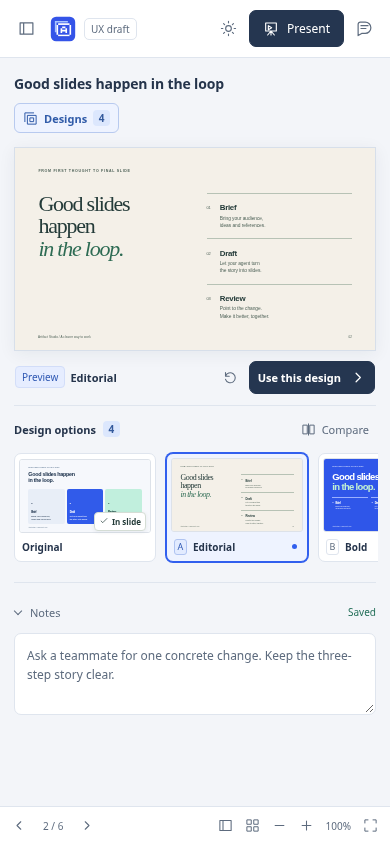
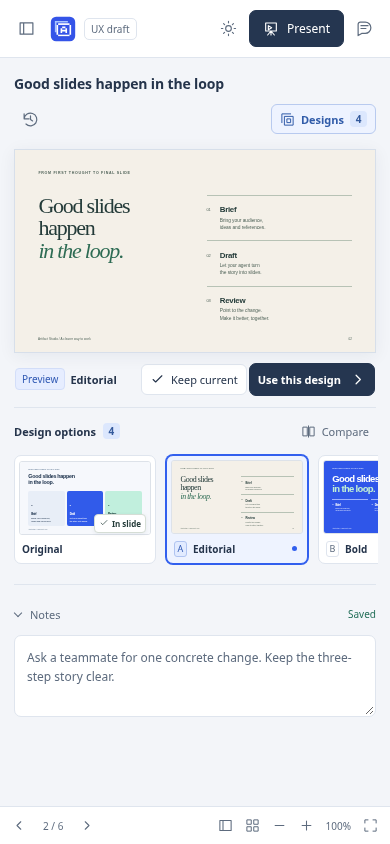
docs(ux): settle design choices quietly and retain them in history

diff --git a/docs/prototypes/slide-alternatives/prototype.js b/docs/prototypes/slide-alternatives/prototype.js
@@ -37,6 +37,8 @@
     {name:'Space for the details', html:otherSlide('Space for<br>the details.',6)},
   ];
   let current = 'original', selected = 'original', activeSlide = 1, previousChoice = null, approved = false;
+  let choiceSettled = false, trayOpen = true, historyNavigated = false;
+  const designHistory = [{id:'original',action:'Starting design'}];
   let compareTrigger = null, compareReference = current;
   const peek = $('alternative-peek');
   let peekTrigger = null, peekCloseTimer = null, suppressPeekFocus = false;
@@ -45,7 +47,7 @@
 
   function renderRail() {
     closeAlternativePeek();
-    $('slide-overview').innerHTML = slides.map((slide,index) => `${index === 0 || index === 3 ? `<div class="draft-section-label">${icon('down')}${index === 0 ? 'The story' : 'In the room'}<span>3</span></div>` : ''}<div class="draft-slide-entry"><button class="draft-slide-thumb" data-slide="${index}" aria-label="Slide ${index+1}: ${slide.name}${index === 1 ? ', 3 alternative designs available' : ''}" ${index === activeSlide ? 'aria-current="true"' : ''}><div class="rail-slide-image" aria-hidden="true">${index === 1 ? design(current).html : slide.html}</div><span class="rail-slide-caption"><span class="rail-slide-number">0${index+1}</span><span>${slide.name}</span><span class="dot ${index === 0 || index === 2 ? 'green' : 'red'}"></span></span></button>${index === 1 ? `<button class="rail-alternatives" data-alternatives aria-label="View 3 alternative designs for slide 2" aria-expanded="false" aria-controls="alternative-peek" aria-describedby="alternative-peek-help">${icon('designs')}<span>3</span></button>` : ''}</div>`).join('');
+    $('slide-overview').innerHTML = slides.map((slide,index) => `${index === 0 || index === 3 ? `<div class="draft-section-label">${icon('down')}${index === 0 ? 'The story' : 'In the room'}<span>3</span></div>` : ''}<div class="draft-slide-entry ${index === 1 && choiceSettled ? 'is-decided' : ''}"><button class="draft-slide-thumb" data-slide="${index}" aria-label="Slide ${index+1}: ${slide.name}${index === 1 ? ', 3 alternative designs available' : ''}" ${index === activeSlide ? 'aria-current="true"' : ''}><div class="rail-slide-image" aria-hidden="true">${index === 1 ? design(current).html : slide.html}</div><span class="rail-slide-caption"><span class="rail-slide-number">0${index+1}</span><span>${slide.name}</span><span class="dot ${index === 0 || index === 2 ? 'green' : 'red'}"></span></span></button>${index === 1 ? `<button class="rail-alternatives" data-alternatives aria-label="View 3 alternative designs for slide 2" aria-expanded="false" aria-controls="alternative-peek" aria-describedby="alternative-peek-help">${icon('designs')}<span>3</span></button>` : ''}</div>`).join('');
   }
 
   function closeAlternativePeek({restoreFocus = false} = {}) {
@@ -85,7 +87,7 @@
   function openDesignOptions(id) {
     closeAlternativePeek();
     if (activeSlide !== 1) { activeSlide = 1; selected = current; renderSlide(); }
-    $('design-tray').hidden = false; $('design-toggle').setAttribute('aria-expanded','true');
+    trayOpen = true;
     doc.body.classList.remove('slides-open'); $('toggle-slides').setAttribute('aria-expanded','false');
     preview(id || (selected !== current ? selected : designs.find(item => item.id !== current).id),{focus:true});
     $('design-tray').scrollIntoView({block:'nearest'});
@@ -113,21 +115,35 @@
 
   function render({focus = false} = {}) {
     const item = design(selected), inSlide = selectedIsCurrent();
+    $('design-tray').hidden = !trayOpen;
+    $('design-toggle').setAttribute('aria-expanded',String(trayOpen));
+    $('design-toggle').hidden = choiceSettled && !trayOpen && inSlide;
+    $('design-history').hidden = false;
+    $('decision-bar').hidden = choiceSettled && inSlide;
     $('slide-stage').innerHTML = item.html;
-    $('slide-stage').setAttribute('role','tabpanel');
-    $('slide-stage').setAttribute('aria-labelledby', `design-${selected}`);
+    $('slide-stage').setAttribute('role',trayOpen ? 'tabpanel' : 'region');
+    if (trayOpen) { $('slide-stage').setAttribute('aria-labelledby', `design-${selected}`); $('slide-stage').removeAttribute('aria-label'); }
+    else { $('slide-stage').removeAttribute('aria-labelledby'); $('slide-stage').setAttribute('aria-label',`${item.name} design ${inSlide ? 'in slide' : 'preview'}`); }
     $('preview-state').classList.toggle('is-current', inSlide);
     $('preview-state').innerHTML = inSlide ? `${icon('check')}In slide` : 'Preview';
     $('preview-name').textContent = item.name;
-    $('back-current').hidden = inSlide;
+    $('back-current').hidden = choiceSettled && inSlide;
+    const keepLabel = choiceSettled ? 'Back to current' : 'Keep current';
+    $('back-current').innerHTML = `${icon(choiceSettled ? 'restore' : 'check')}<span>${keepLabel}</span>`;
+    $('back-current').setAttribute('aria-label',`${keepLabel} design`);
+    $('back-current').title = `${keepLabel} design`;
+    $('back-current').classList.toggle('is-confirm',!choiceSettled);
     $('use-design').hidden = inSlide;
     $('approve').hidden = !inSlide;
     $('approve').setAttribute('aria-pressed',String(approved));
     $('approve').innerHTML = `${icon('check')}${approved ? 'Approved' : 'Approve'}`;
     $('design-options').innerHTML = designs.map(item => optionMarkup(item,'design')).join('');
     $('composer-design').textContent = inSlide ? '' : `${item.name} preview`;
+    $('review-designs').classList.toggle('is-resolved',choiceSettled);
+    $('review-designs').querySelector('.chat-design-card-label strong').innerHTML = choiceSettled ? `${icon('check')}${design(current).name} kept` : '3 new designs';
+    $('review-designs').setAttribute('aria-label',choiceSettled ? `View saved designs, ${design(current).name} kept` : 'Review 3 new designs');
     if ($('compare-dialog').open) renderComparison();
-    if (focus) $(`design-${selected}`).focus({preventScroll:true});
+    if (focus) (trayOpen ? $(`design-${selected}`) : $('slide-stage')).focus({preventScroll:true});
   }
 
   function preview(id, {focus = false} = {}) {
@@ -146,28 +162,46 @@
     $('compare-candidate').setAttribute('aria-labelledby',`compare-${selected}`);
     $('compare-options').innerHTML = designs.filter(item => item.id !== compareReference).map(item => optionMarkup(item,'compare')).join('');
     $('compare-candidate-state').textContent = selectedIsCurrent() ? 'In slide' : 'Preview';
-    $('use-reference').hidden = compareReference === current;
-    $('use-reference').textContent = `Use ${design(compareReference).name}`;
-    $('use-compared').innerHTML = selectedIsCurrent() ? `${icon('check')}In slide` : `Use ${design(selected).name}${icon('right')}`;
-    $('use-compared').disabled = selectedIsCurrent();
+    $('use-reference').hidden = false;
+    $('use-reference').textContent = `${compareReference === current ? 'Keep' : 'Use'} ${design(compareReference).name}`;
+    $('use-compared').innerHTML = selectedIsCurrent() ? `Keep ${design(current).name}${icon('check')}` : `Use ${design(selected).name}${icon('right')}`;
+    $('use-compared').disabled = false;
+    $('keep-compared-current').hidden = compareReference === current || selectedIsCurrent();
   }
 
   function closeComparison() {
     $('compare-dialog').close();
   }
 
-  function adopt() {
-    if (selectedIsCurrent()) return;
-    previousChoice = {id:current,approved};
-    current = selected;
-    approved = false;
+  function settleDesign(id) {
+    const replacing = id !== current;
+    previousChoice = {id:current,approved,settled:choiceSettled};
+    current = id; selected = current;
+    if (replacing) approved = false;
+    choiceSettled = true; trayOpen = false;
+    designHistory.push({id:current,action:replacing ? 'Design chosen' : 'Kept current design'});
     renderRail();
     if ($('compare-dialog').open) closeComparison();
     render();
-    $('toast-message').textContent = `${design(current).name} is now in the slide.`;
+    $('toast-message').textContent = replacing ? `${design(current).name} is now in the slide.` : `${design(current).name} kept. Alternatives saved.`;
     $('draft-toast').hidden = false;
     $('undo-choice').hidden = false;
-    $('design-toggle').focus({preventScroll:true});
+    $('design-history').focus({preventScroll:true});
+  }
+
+  function adopt() { settleDesign(selected); }
+
+  function cancelExploration() {
+    if (choiceSettled) trayOpen = false;
+    preview(current,{focus:!choiceSettled});
+    if (choiceSettled) $('design-history').focus({preventScroll:true});
+  }
+
+  function focusDesignControl() { ($('design-toggle').hidden ? $('design-history') : $('design-toggle')).focus({preventScroll:true}); }
+
+  function renderDesignHistory() {
+    $('design-history-list').innerHTML = [...designHistory].reverse().map((entry,index) => `<li><button class="design-history-entry" data-history-design="${entry.id}" aria-label="Preview ${design(entry.id).name}, ${entry.action.toLowerCase()}${index === 0 && entry.id === current ? ', in slide' : ''}"><span class="history-design-image" aria-hidden="true">${design(entry.id).html}</span><span class="history-design-copy"><strong>${design(entry.id).name}</strong><small>${entry.action}</small></span>${index === 0 && entry.id === current ? `<span class="history-current">${icon('check')}In slide</span>` : icon('right')}</button></li>`).join('');
+    $('saved-design-options').innerHTML = designs.filter(item => item.id !== current).map(item => `<button class="saved-design-option" data-history-design="${item.id}" aria-label="Preview saved ${item.name} design"><span class="design-option-image" aria-hidden="true">${item.html}</span><span class="design-option-label"><strong>${item.name}</strong></span></button>`).join('');
   }
 
   function tabKeyboard(event, prefix) {
@@ -185,10 +219,11 @@
   $('design-options').addEventListener('keydown', event => tabKeyboard(event,'design'));
   $('compare-options').addEventListener('click', event => { const option = event.target.closest('[data-design]'); if (option) { preview(option.dataset.design); $(`compare-${selected}`).focus({preventScroll:true}); } });
   $('compare-options').addEventListener('keydown', event => tabKeyboard(event,'compare'));
-  $('back-current').addEventListener('click', () => preview(current,{focus:true}));
+  $('back-current').addEventListener('click', () => { if (choiceSettled) cancelExploration(); else settleDesign(current); });
   $('use-design').addEventListener('click', adopt);
   $('use-compared').addEventListener('click', adopt);
-  $('use-reference').addEventListener('click', () => { selected = compareReference; adopt(); });
+  $('use-reference').addEventListener('click', () => settleDesign(compareReference));
+  $('keep-compared-current').addEventListener('click', () => settleDesign(current));
   $('compare-reference').addEventListener('change', event => { compareReference = event.target.value; renderComparison(); announce(`Comparing ${design(compareReference).name} with ${design(selected).name}. Your slide is unchanged.`); });
   $('compare-candidate-select').addEventListener('change', event => { preview(event.target.value); $('compare-candidate-select').focus({preventScroll:true}); });
   $('compare').addEventListener('click', event => {
@@ -199,18 +234,23 @@
     $('close-compare').focus();
   });
   $('close-compare').addEventListener('click', closeComparison);
-  $('compare-dialog').addEventListener('close', () => { compareTrigger?.focus({preventScroll:true}); });
-  $('design-toggle').addEventListener('click', () => { const expanded = $('design-toggle').getAttribute('aria-expanded') === 'true'; $('design-tray').hidden = expanded; $('design-toggle').setAttribute('aria-expanded',String(!expanded)); });
+  $('compare-dialog').addEventListener('close', () => { (compareTrigger?.checkVisibility() ? compareTrigger : $('design-history')).focus({preventScroll:true}); });
+  $('design-toggle').addEventListener('click', () => { trayOpen = !trayOpen; render(); if ($('design-toggle').hidden) $('design-history').focus({preventScroll:true}); });
   $('review-designs').addEventListener('click', () => openDesignOptions());
+  $('design-history').addEventListener('click', () => { renderDesignHistory(); $('saved-designs').open = false; historyNavigated = false; $('design-history-dialog').showModal(); $('close-design-history').focus(); });
+  $('close-design-history').addEventListener('click', () => $('design-history-dialog').close());
+  $('design-history-dialog').addEventListener('close', () => { if (!historyNavigated) $('design-history').focus({preventScroll:true}); historyNavigated = false; });
+  $('design-history-dialog').addEventListener('click', event => { const entry = event.target.closest('[data-history-design]'); if (entry) { historyNavigated = true; $('design-history-dialog').close(); openDesignOptions(entry.dataset.historyDesign); } });
   $('undo-choice').addEventListener('click', () => {
     if (previousChoice === null) return;
-    current = previousChoice.id; approved = previousChoice.approved; selected = current; previousChoice = null;
+    current = previousChoice.id; approved = previousChoice.approved; choiceSettled = previousChoice.settled; trayOpen = !choiceSettled; selected = current; previousChoice = null;
+    designHistory.push({id:current,action:'Choice undone'});
     renderRail(); render();
     $('toast-message').textContent = `Back to ${design(current).name.toLowerCase()}. All designs are kept.`;
     $('undo-choice').hidden = true;
-    $('design-toggle').focus({preventScroll:true});
+    focusDesignControl();
   });
-  $('close-toast').addEventListener('click', () => { $('draft-toast').hidden = true; $('design-toggle').focus({preventScroll:true}); });
+  $('close-toast').addEventListener('click', () => { $('draft-toast').hidden = true; focusDesignControl(); });
 
   function renderSlide() {
     renderRail();
@@ -218,6 +258,7 @@
     $('decision-bar').hidden = activeSlide !== 1;
     $('design-tray').hidden = activeSlide !== 1;
     $('design-toggle').hidden = activeSlide !== 1;
+    $('design-history').hidden = activeSlide !== 1;
     doc.querySelector('.draft-chat-title h2').textContent = slides[activeSlide].name;
     doc.querySelector('.slide-number').textContent = `0${activeSlide+1}`;
     doc.querySelector('.message-count').textContent = activeSlide === 1 ? '2' : '0';
@@ -225,10 +266,10 @@
     $('composer-slide').textContent = `0${activeSlide+1}`;
     $('composer-design').textContent = '';
     $('footer-slide').textContent = `${activeSlide+1} / 6`;
-    if (activeSlide === 1) { render(); $('design-toggle').setAttribute('aria-expanded','true'); }
+    if (activeSlide === 1) { render(); }
     else { $('slide-stage').innerHTML = slides[activeSlide].html; $('slide-stage').removeAttribute('aria-labelledby'); $('slide-stage').setAttribute('role','region'); $('approve').hidden = false; }
   }
-  $('slide-overview').addEventListener('click', event => { if (event.target.closest('[data-alternatives]')) { openDesignOptions(); return; } const thumb = event.target.closest('[data-slide]'); if (!thumb) return; activeSlide = Number(thumb.dataset.slide); selected = current; renderSlide(); doc.body.classList.remove('slides-open'); $('toggle-slides').setAttribute('aria-expanded','false'); if (innerWidth > 600) doc.querySelector(`[data-slide="${activeSlide}"]`).focus({preventScroll:true}); else $('toggle-slides').focus(); });
+  $('slide-overview').addEventListener('click', event => { if (event.target.closest('[data-alternatives]')) { openDesignOptions(); return; } const thumb = event.target.closest('[data-slide]'); if (!thumb) return; $('draft-toast').hidden = true; activeSlide = Number(thumb.dataset.slide); selected = current; trayOpen = !choiceSettled; renderSlide(); doc.body.classList.remove('slides-open'); $('toggle-slides').setAttribute('aria-expanded','false'); if (innerWidth > 600) doc.querySelector(`[data-slide="${activeSlide}"]`).focus({preventScroll:true}); else $('toggle-slides').focus(); });
   $('toggle-theme').addEventListener('click', () => { const dark = doc.documentElement.dataset.theme !== 'dark'; doc.documentElement.dataset.theme = dark ? 'dark' : 'light'; $('toggle-theme').setAttribute('aria-label',`Switch to ${dark ? 'light' : 'dark'} appearance`); });
   $('toggle-slides').addEventListener('click', () => { const open = doc.body.classList.toggle('slides-open'); $('toggle-slides').setAttribute('aria-expanded',String(open)); });
   $('toggle-chat').addEventListener('click', () => { const narrow = innerWidth <= 1100; doc.body.classList.toggle(narrow ? 'chat-open' : 'chat-closed'); $('toggle-chat').setAttribute('aria-expanded',String(narrow ? doc.body.classList.contains('chat-open') : !doc.body.classList.contains('chat-closed'))); });
@@ -237,7 +278,7 @@
   $('approve').addEventListener('click', () => { approved = !approved; $('approve').setAttribute('aria-pressed',String(approved)); $('approve').innerHTML = `${icon('check')}${approved ? 'Approved' : 'Approve'}`; });
   $('present').addEventListener('click', () => { $('presentation-stage').innerHTML = activeSlide === 1 ? design(current).html : slides[activeSlide].html; $('presentation-dialog').showModal(); });
   $('close-present').addEventListener('click', () => $('presentation-dialog').close());
-  doc.addEventListener('keydown', event => { if (event.key === 'Escape' && !$('compare-dialog').open && !$('presentation-dialog').open) { doc.body.classList.remove('slides-open','chat-open'); if (!selectedIsCurrent()) preview(current,{focus:true}); } });
+  doc.addEventListener('keydown', event => { if (event.key === 'Escape' && !$('compare-dialog').open && !$('presentation-dialog').open && !$('design-history-dialog').open) { doc.body.classList.remove('slides-open','chat-open'); if (!selectedIsCurrent() || (choiceSettled && trayOpen)) cancelExploration(); } });
   $('chat-design-previews').innerHTML = designs.slice(1).map(item => `<span aria-hidden="true">${item.html}</span>`).join('');
   renderRail(); render();
   if (innerWidth <= 1100) $('toggle-chat').setAttribute('aria-expanded','false');

diff --git a/docs/prototypes/slide-alternatives/prototype.css b/docs/prototypes/slide-alternatives/prototype.css
@@ -36,6 +36,8 @@ button:focus-visible,a:focus-visible,textarea:focus-visible,[tabindex]:focus-vis
 .draft-section-label>span:last-child{margin-left:auto;font-weight:400}
 .draft-slide-entry{position:relative;margin-bottom:12px;border:1px solid transparent;border-radius:7px}
 .draft-slide-entry:has([aria-current=true]){border-color:var(--draft-blue);background:var(--draft-selected);box-shadow:0 0 0 1px var(--draft-blue)}
+.draft-slide-entry.is-decided .rail-alternatives{opacity:0;pointer-events:none}
+.draft-slide-entry.is-decided:hover .rail-alternatives,.draft-slide-entry.is-decided:focus-within .rail-alternatives,.draft-slide-entry.is-decided .rail-alternatives[aria-expanded=true]{opacity:1;pointer-events:auto}
 .draft-slide-thumb{display:block;width:100%;padding:5px;border:0;background:transparent;border-radius:7px;text-align:left}
 .rail-slide-image{width:100%;aspect-ratio:16/9;border:1px solid var(--draft-line);border-radius:2px;overflow:hidden;container-type:inline-size;position:relative}
 .rail-slide-caption{display:flex;align-items:center;gap:6px;margin:7px 1px 2px;font-size:10px;min-width:0}
@@ -193,6 +195,12 @@ button:focus-visible,a:focus-visible,textarea:focus-visible,[tabindex]:focus-vis
 .chat-design-card-label strong{display:block;font-size:11px;font-weight:600}
 .chat-design-card-label small{font-size:9px;color:var(--draft-muted);display:block;margin-top:4px}
 .chat-design-card-label .ui-icon{width:15px;height:15px;color:var(--draft-muted)}
+.chat-design-card.is-resolved{padding:8px 9px;background:transparent}
+.chat-design-card.is-resolved .chat-design-previews{display:none}
+.chat-design-card.is-resolved .chat-design-card-label{padding-top:0}
+.chat-design-card.is-resolved .chat-design-card-label small{display:none}
+.chat-design-card.is-resolved .chat-design-card-label strong{display:flex;align-items:center;gap:6px;font-size:11px;font-weight:500}
+.chat-design-card.is-resolved .chat-design-card-label strong .ui-icon{color:var(--draft-green);width:13px;height:13px}
 .draft-composer{margin-top:auto;padding:10px 10px 8px;border:1px solid var(--draft-line);border-radius:11px;background:var(--draft-surface)}
 .composer-target{font-size:9px;display:flex;align-items:center;gap:5px;color:var(--draft-muted)}
 .composer-target .ui-icon{width:12px;height:12px}
@@ -240,6 +248,35 @@ button:focus-visible,a:focus-visible,textarea:focus-visible,[tabindex]:focus-vis
 .draft-toast>.ui-icon{color:var(--draft-green)}
 .draft-toast .text-button{font-size:12px;color:var(--draft-blue);font-weight:600}
 .draft-toast .icon-button{width:24px;height:24px}
+.design-history-dialog{width:min(520px,calc(100vw - 32px));max-height:calc(100dvh - 32px);padding:22px;border:1px solid var(--draft-line);border-radius:13px;background:var(--draft-surface);color:var(--draft-ink);box-shadow:0 20px 70px #15243b40;overflow:auto}
+.design-history-dialog::backdrop{background:#15203570;backdrop-filter:blur(3px)}
+.design-history-header{display:flex;align-items:center;justify-content:space-between;margin-bottom:20px}
+.design-history-header h2{font-size:18px;letter-spacing:-.4px;margin:5px 0 0;font-weight:600}
+.design-history-list{list-style:none;padding:0;margin:0}
+.design-history-list li+li{border-top:1px solid var(--draft-line)}
+.design-history-entry{display:flex;align-items:center;gap:13px;width:100%;padding:12px 0;border:0;background:transparent;text-align:left;border-radius:5px}
+.history-design-image{display:block;position:relative;container-type:inline-size;width:108px;aspect-ratio:16/9;flex:none;border:1px solid var(--draft-line);border-radius:4px;overflow:hidden}
+.history-design-copy{display:flex;flex-direction:column;gap:6px;min-width:0;flex:1}
+.history-design-copy strong{font-size:12px;font-weight:600}
+.history-design-copy small{font-size:10px;color:var(--draft-muted)}
+.history-current{display:flex;align-items:center;gap:4px;font-size:10px;color:var(--draft-green);white-space:nowrap}
+.history-current .ui-icon{width:13px;height:13px}
+.design-history-entry>.ui-icon{width:14px;height:14px;color:var(--draft-muted)}
+.saved-designs{border-top:1px solid var(--draft-line);margin-top:13px;padding-top:13px}
+.saved-designs summary{display:flex;gap:7px;align-items:center;font-size:11px;font-weight:550;list-style:none;padding:5px 0;cursor:pointer}
+.saved-designs summary::after{content:'›';font-size:18px;color:var(--draft-muted);margin-left:auto}
+.saved-designs[open] summary::after{transform:rotate(90deg)}
+.saved-designs summary>.ui-icon{width:14px;height:14px;color:var(--draft-muted)}
+.saved-design-options{display:grid;grid-template-columns:repeat(3,minmax(0,1fr));gap:9px;margin-top:13px}
+.saved-design-option{padding:4px;border:1px solid var(--draft-line);border-radius:6px;min-width:0;text-align:left;background:var(--draft-rail)}
+.saved-design-option .design-option-label{font-size:10px}
+.decision-bar{flex-wrap:wrap}
+.decision-actions{margin-left:auto}
+.decision-bar .decision-actions #back-current>span:last-child{display:inline}
+.text-button.is-confirm{border-color:var(--draft-line);background:var(--draft-surface);color:var(--draft-ink)}
+@media(max-width:1000px){.compare-footer{flex-direction:column;align-items:stretch;gap:16px}.compare-options{max-width:100%;overflow:auto;padding:2px 2px 6px;margin:-2px}.compare-decision{flex-direction:row;align-items:center;justify-content:space-between}.compare-decision:has(#keep-compared-current:not([hidden])) p{display:none}}
+@media(hover:none),(pointer:coarse){.draft-slide-entry.is-decided .rail-alternatives{opacity:1;pointer-events:auto}}
+@media(max-width:600px){.decision-actions{gap:8px}.compare-choice-buttons{flex-wrap:wrap;justify-content:flex-end}.design-history-dialog{padding:16px}.history-design-image{width:82px}.history-design-copy{gap:5px}.history-current{font-size:9px}.design-history-entry{gap:9px}}
 body.chat-closed .draft-workspace{grid-template-columns:176px minmax(0,1fr)}
 body.chat-closed .draft-chat{display:none}
 @media(min-width:1600px){.draft-workspace{grid-template-columns:200px minmax(0,1fr) 350px}.draft-canvas{padding:20px 36px 28px}}

diff --git a/docs/prototypes/slide-alternatives/index.html b/docs/prototypes/slide-alternatives/index.html
@@ -33,14 +33,14 @@
     <section class="draft-canvas" aria-labelledby="slide-title">
       <header class="draft-canvas-header">
         <h1 id="slide-title">Good slides happen in the loop</h1>
-        <div class="draft-canvas-actions"><button id="design-toggle" class="design-toggle" aria-expanded="true" aria-controls="design-tray"><span data-icon="designs"></span>Designs <span class="count">4</span></button><span class="draft-divider"></span><button class="draft-approve" id="approve"><span data-icon="check"></span>Approve</button></div>
+        <div class="draft-canvas-actions"><button id="design-history" class="icon-button" aria-label="Slide history" title="History and saved designs" aria-haspopup="dialog" data-icon="history"></button><button id="design-toggle" class="design-toggle" aria-expanded="true" aria-controls="design-tray"><span data-icon="designs"></span>Designs <span class="count">4</span></button><span class="draft-divider"></span><button class="draft-approve" id="approve"><span data-icon="check"></span>Approve</button></div>
       </header>
 
       <div id="slide-stage" class="slide-stage" role="tabpanel" aria-label="Selected design preview" tabindex="0"></div>
 
       <div class="decision-bar" id="decision-bar">
         <div class="preview-description"><span id="preview-state" class="preview-state">Preview</span><strong id="preview-name">Editorial</strong></div>
-        <div class="decision-actions"><button id="back-current" class="text-button" aria-label="Back to current design" title="Back to current design"><span data-icon="restore"></span><span>Back to current</span></button><button class="draft-primary" id="use-design">Use this design<span data-icon="right"></span></button></div>
+        <div class="decision-actions"><button id="back-current" class="text-button" aria-label="Keep current design" title="Keep current design"><span data-icon="check"></span><span>Keep current</span></button><button class="draft-primary" id="use-design">Use this design<span data-icon="right"></span></button></div>
       </div>
 
       <section class="design-tray" id="design-tray" aria-labelledby="design-tray-title">
@@ -73,7 +73,13 @@
   <dialog id="compare-dialog" class="compare-dialog" aria-labelledby="compare-title">
     <header class="compare-header"><div><span class="compare-eyebrow">SLIDE 02</span><h2 id="compare-title">Compare designs</h2></div><button class="icon-button" id="close-compare" aria-label="Close comparison" data-icon="close"></button></header>
     <div class="compare-grid"><section class="compare-pane"><header><span id="compare-reference-state"><span class="current-dot"></span>In slide</span><label class="sr-only" for="compare-reference">Left design</label><select id="compare-reference"></select></header><div class="slide-stage" id="compare-current" role="region" aria-label="Left design preview"></div></section><section class="compare-pane"><header><span class="compare-preview-label" id="compare-candidate-state">Preview</span><label class="sr-only" for="compare-candidate-select">Right design</label><select id="compare-candidate-select"></select></header><div class="slide-stage" id="compare-candidate"></div></section></div>
-    <footer class="compare-footer"><div class="compare-options" id="compare-options" role="tablist" aria-label="Right design"></div><div class="compare-decision"><p>Previewing keeps your slide unchanged.</p><div class="compare-choice-buttons"><button id="use-reference">Use Editorial</button><button class="draft-primary" id="use-compared">Use Bold<span data-icon="right"></span></button></div></div></footer>
+    <footer class="compare-footer"><div class="compare-options" id="compare-options" role="tablist" aria-label="Right design"></div><div class="compare-decision"><p>Previewing keeps your slide unchanged.</p><div class="compare-choice-buttons"><button id="keep-compared-current" class="text-button">Keep current</button><button id="use-reference">Use Editorial</button><button class="draft-primary" id="use-compared">Use Bold<span data-icon="right"></span></button></div></div></footer>
+  </dialog>
+
+  <dialog id="design-history-dialog" class="design-history-dialog" aria-labelledby="design-history-title">
+    <header class="design-history-header"><div><span class="compare-eyebrow">SLIDE 02</span><h2 id="design-history-title">Slide history</h2></div><button class="icon-button" id="close-design-history" aria-label="Close slide history" data-icon="close"></button></header>
+    <ol class="design-history-list" id="design-history-list" aria-label="Design decisions"></ol>
+    <details class="saved-designs" id="saved-designs"><summary><span data-icon="designs"></span>Saved alternatives<span class="count">3</span></summary><div class="saved-design-options" id="saved-design-options"></div></details>
   </dialog>
 
   <dialog class="presentation-dialog" id="presentation-dialog" aria-label="Current slide presentation"><button class="icon-button" id="close-present" aria-label="Close presentation" data-icon="close"></button><div class="slide-stage" id="presentation-stage"></div></dialog>

diff --git a/docs/prototypes/slide-alternatives/README.md b/docs/prototypes/slide-alternatives/README.md
@@ -14,8 +14,9 @@ The chooser runs entirely in memory. It makes no product API calls, generates no
 1. **Discover.** A compact stacked-cards control with a “3” sits on the slide thumbnail. Hovering reveals a fan of actual design previews just above the cursor, with subtle depth and a lift when hovering a card. Click a card to preview that design on the main canvas, or click/tap the count to open the chooser. Keyboard focus also exposes the fan; Arrow Down enters its previews and Escape dismisses it. Hovering alone keeps the canvas and chosen design unchanged. The editor's Designs button counts the original plus the three alternatives. The agent's chat reply also opens the options. Alternatives are parallel design directions, separate from chronological version history.
 2. **Preview.** Click a named thumbnail or use arrow keys, Home and End. A blue selection identifies the preview. “In slide” continues to mark the actual chosen design, including on its thumbnail. The preview state and **Use this design** stay beside the canvas even if the options row is collapsed. Escape returns to the chosen design.
 3. **Compare.** Compare the current design with a proposal, or any two proposals. Both previews share dimensions and alignment. Either visible design can be chosen directly. On phones the previews stack; short screens use the two dropdowns instead of squeezing in another thumbnail row. The decision controls remain available while previews scroll.
-4. **Choose.** **Use this design** changes the slide's chosen design, updates its overview thumbnail, preserves every proposal and offers **Undo**. It returns the slide to review; choosing a design and approving a slide are separate decisions. Approval is hidden while previewing. Present uses the chosen design.
+4. **Decide.** **Use this design** adopts a proposal. **Keep current** explicitly keeps the existing slide, including its notes and approval. Either decision collapses the options and decision bar, removes the prominent Designs count, and reduces the chat attachment to a quiet confirmation. Both offer **Undo** and preserve all proposals. A replacement returns the slide to review; choosing a design and approving a slide are separate decisions. Approval is hidden while previewing. Present uses the chosen design.
 5. **Refine.** A chat context chip names the design being previewed. In the real feature, feedback and questions must carry that design's identity so an agent refines the intended option. Human speaker notes stay attached to the slide. Navigating to another slide ends a temporary preview.
+6. **Return later.** The quiet History icon records “Design chosen” or “Kept current design”. Its Saved alternatives section starts collapsed. Opening a saved design previews it for another explicit decision. The thumbnail's count now appears only on hover/focus, with direct access on touch devices. Revisiting the slide or cancelling an exploration keeps the options collapsed.
 
 ![Previewing Editorial while the original remains in the slide.](screenshots/01-preview.png)
 
@@ -27,6 +28,10 @@ The chooser runs entirely in memory. It makes no product API calls, generates no
 
 [Full hover view](screenshots/07-hover.png) · [Hover in dark appearance](screenshots/09-hover-dark.png)
 
+![The decision and retained alternatives are available from History.](screenshots/10-history.png)
+
+[Keeping the original design](screenshots/11-kept-current.png)
+
 ## Iterations made in the browser
 
 - Reduced the thumbnail row's width to preserve space for the slide and expanded notes.
@@ -35,12 +40,15 @@ The chooser runs entirely in memory. It makes no product API calls, generates no
 - Aligned both comparison canvases and kept the decision controls visible on short screens.
 - Added dropdown switching on compact comparisons, kept the current-design marker visible, and corrected accessible names and muted footer contrast.
 - Replaced the filled “3 alternatives” badge with a quiet count on the thumbnail and a cursor-adjacent preview fan. Cards lift without shifting their hover area, remain clickable, and open a temporary canvas preview. Keyboard and touch retain direct access to the chooser; reduced-motion preferences disable the fan animation.
+- Added an explicit Keep current decision, including in comparison. Either decision closes the prominent chooser and simplifies the chat attachment. History records the decision and keeps saved alternatives behind a collapsed section; reopening or cancelling an exploration never silently changes the chosen slide.
 
 ## Behavior to retain in implementation
 
 Agent publication must add proposals without switching the chosen design, the user's preview or keyboard focus. Each proposal needs a stable identity, a short name, a renderable preview, its source slide revision and an optional brief rationale. Generation can expose ready proposals while others finish; failures should stay local to their proposal.
 
 Choosing must check the slide revision before applying a proposal. If the underlying slide changed, show that conflict and let the reviewer inspect the latest slide before replacing it. Keep the original and remaining options available. Preserve human notes, discussion and pending feedback; bind element anchors and proposal feedback to their actual design revision. Changes to a chosen design must not silently rewrite another proposal. Presentation/export uses the chosen design, never a temporary preview.
+
+Keeping the current design records a review decision without rewriting the slide or resetting approval. History distinguishes actual decisions from proposals that were never chosen. A completed decision stays quiet across navigation; only newly requested/arriving proposals should regain the prominent pending state. Human feedback drafts must retain the design identity they were written for when the reviewer changes or keeps a design.
 
 ## Components next
 
@@ -50,6 +58,6 @@ Component proposals must be tied to one chosen slide design and a stable compone
 
 ## Verification
 
-Browser review covers mouse and keyboard switching, safe preview, either-side comparison choices, apply/undo, preserved notes, retained alternatives, presentation using the chosen design, and light/dark layouts at 1440, 768, 390 and 320 pixels. The hover review exercises pointer entry/exit, moving onto the cards, clicking all three proposals, Arrow Down/Enter, Escape with focus restoration, touch access, and reduced motion. Axe-core 4.14.0 reported no A/AA violations in 22 sampled states; this is not a complete accessibility certification. The 320px comparison keeps its choice button inside the viewport. The standalone download was exercised offline without external requests.
+Browser review covers mouse and keyboard switching, safe preview, either-side comparison choices, apply/undo, keeping the existing design and approval, preserved notes, quiet settled states across navigation, History and saved alternatives, presentation using the chosen design, and light/dark layouts at 1440, 768, 390 and 320 pixels. The hover review exercises pointer entry/exit, moving onto the cards, clicking all three proposals, Arrow Down/Enter, Escape with focus restoration, touch access, and reduced motion. Axe-core 4.14.0 reported no A/AA violations in 34 sampled states; this is not a complete accessibility certification. Comparison decision buttons remain clickable at tablet widths and inside the viewport at 320px. The standalone download was exercised offline without external requests.
 
-Screenshots are direct Chromium captures of this prototype with fictional data; they are not images of an implemented product feature. [Capture provenance and sampled results](captures.json) accompany the nine images. Physical-device and user usability testing remain follow-up work.
+Screenshots are direct Chromium captures of this prototype with fictional data; they are not images of an implemented product feature. [Capture provenance and sampled results](captures.json) accompany the eleven images. Physical-device and user usability testing remain follow-up work.
